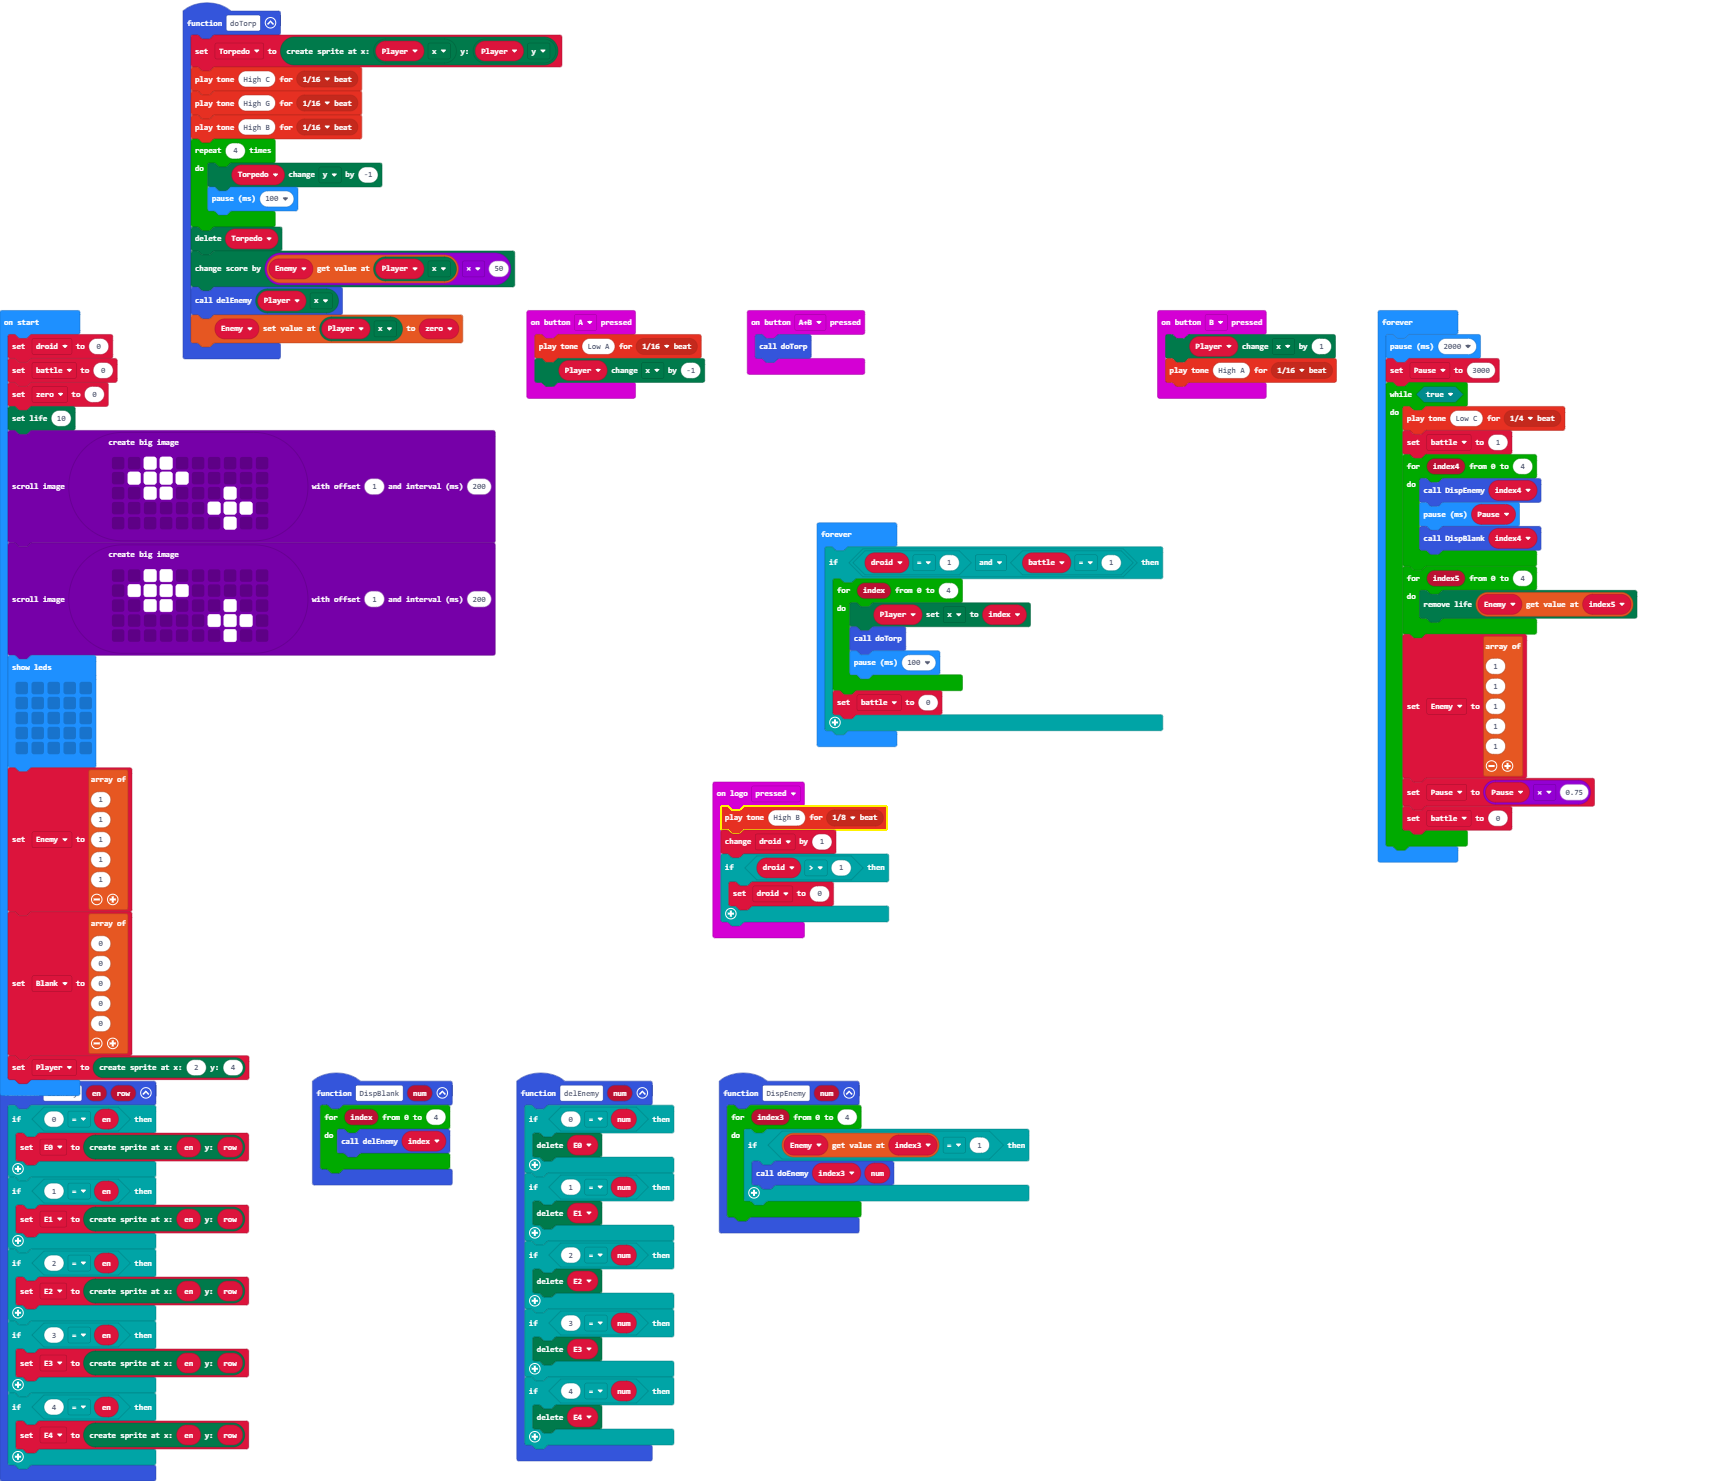
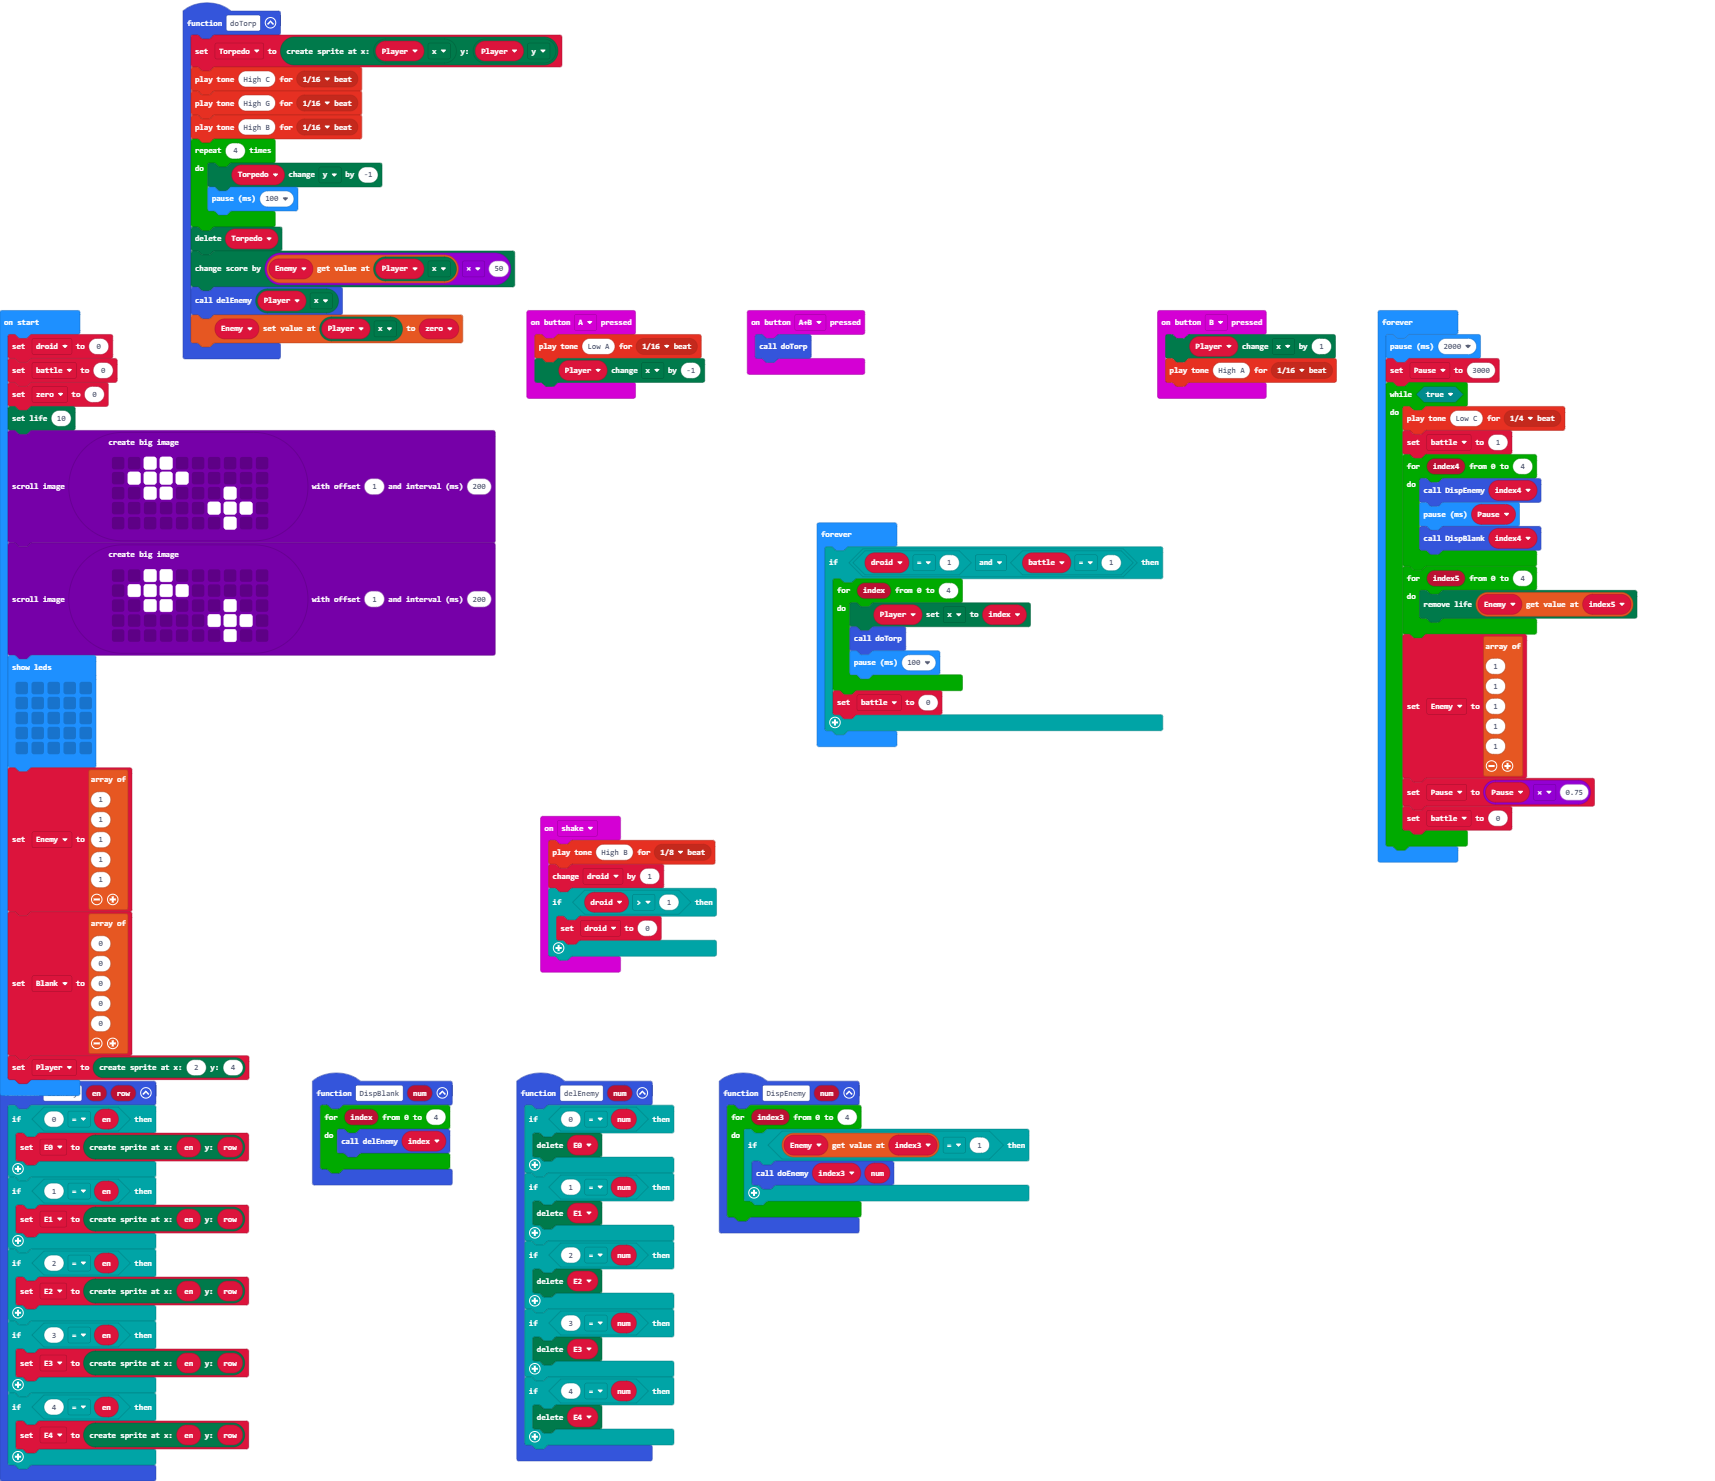
Update main.blocks, main.ts

Changed region(s): [[0.309, 0.528, 0.5254, 0.6833]]

diff --git a/main.ts b/main.ts
@@ -45,6 +45,13 @@ input.onButtonPressed(Button.B, function () {
     Player.change(LedSpriteProperty.X, 1)
     music.playTone(880, music.beat(BeatFraction.Sixteenth))
 })
+input.onGesture(Gesture.Shake, function () {
+    music.playTone(988, music.beat(BeatFraction.Eighth))
+    droid += 1
+    if (droid > 1) {
+        droid = 0
+    }
+})
 function delEnemy (num: number) {
     if (0 == num) {
         E0.delete()
@@ -62,13 +69,6 @@ function delEnemy (num: number) {
         E4.delete()
     }
 }
-input.onLogoEvent(TouchButtonEvent.Pressed, function () {
-    music.playTone(988, music.beat(BeatFraction.Eighth))
-    droid += 1
-    if (droid > 1) {
-        droid = 0
-    }
-})
 function DispEnemy (num: number) {
     for (let index3 = 0; index3 <= 4; index3++) {
         if (Enemy[index3] == 1) {
